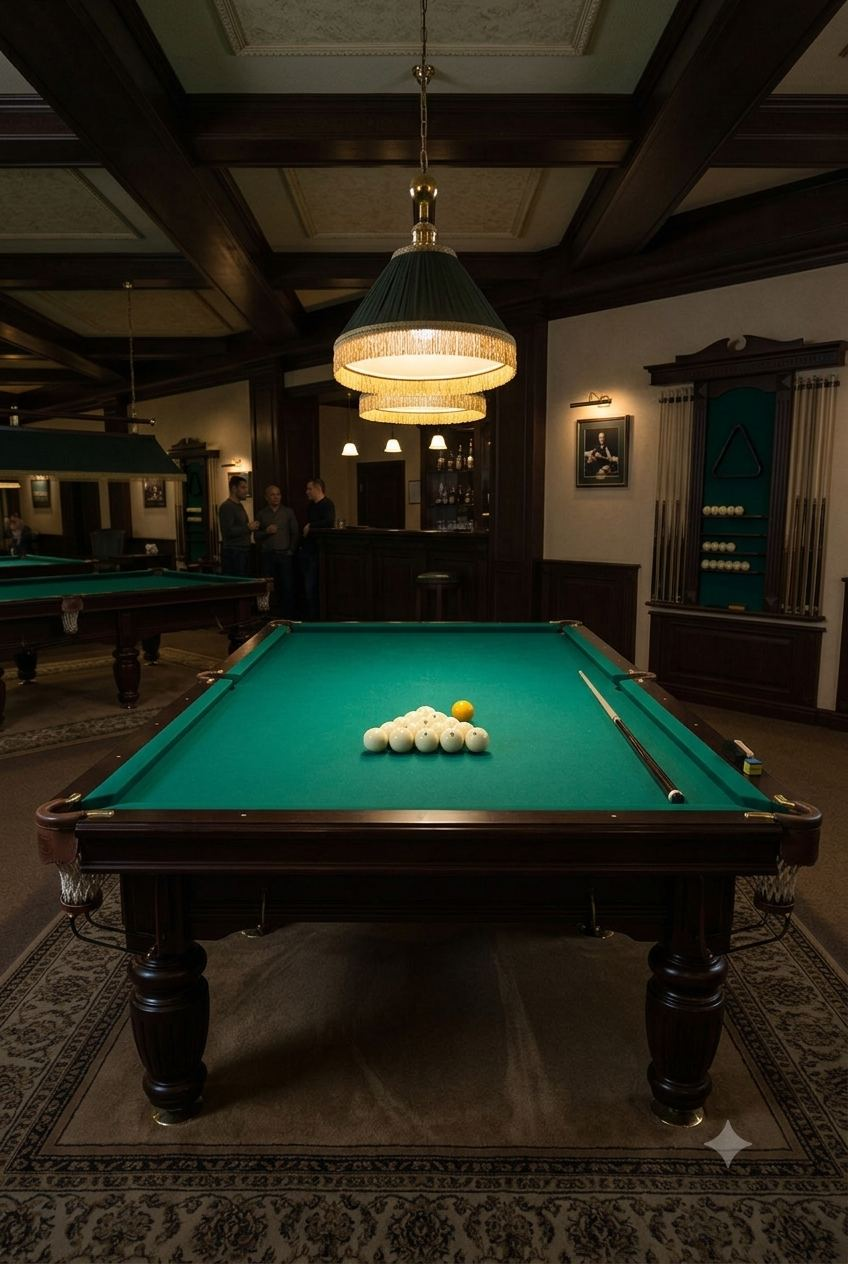
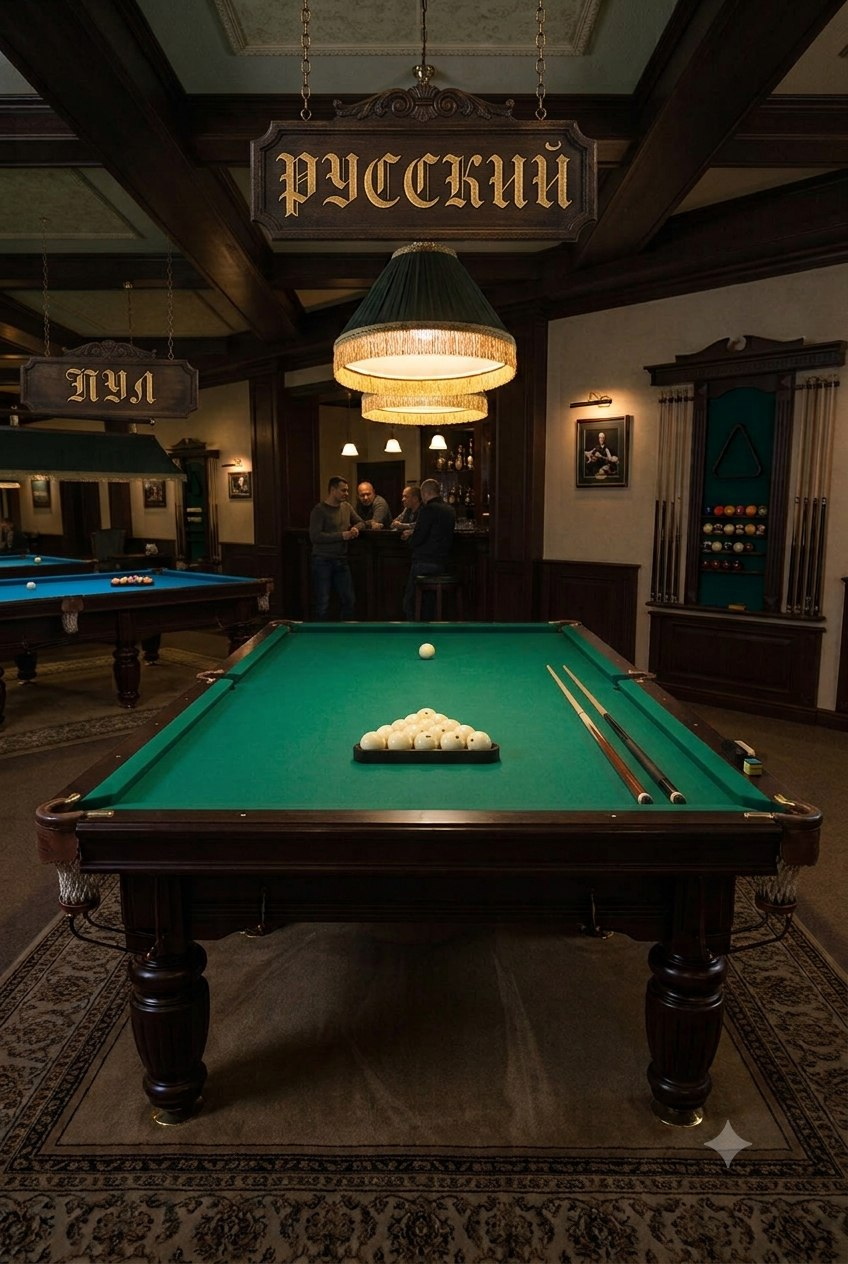
Add a discipline-choice gate screen and swap in real lit/unlit photos (#29)
- Replace the CSS brightness() dimming trick with three actual table
  photos (off/dim, russian lit, pool lit) that cross-fade, so the
  "lights off" state is a real photo instead of a filtered one.
- On every fresh load with no match in progress, show a "Во что
  будете играть?" gate (just the dim table + two big discipline
  buttons) instead of the normal app chrome. Picking a discipline
  lights the table and reveals the header/tabs/nav as before.
- Returning to an already-active match skips the gate entirely and
  lights the table immediately, so it doesn't interrupt play on
  reload.

diff --git a/src/BilliardsTracker.jsx b/src/BilliardsTracker.jsx
@@ -18,6 +18,7 @@ import {
 } from "./clubSync.js";
 import tableRussianPhoto from "./assets/table-russian.jpg";
 import tablePoolPhoto from "./assets/table-pool.jpg";
+import tableOffPhoto from "./assets/table-off.jpg";
 import { COLORS, DICE_PIP_POS, DICE_LAYOUTS, POOL_PALETTE, GAME_TYPES, RUSSIAN_MODES, AVATAR_COLORS } from "./constants.js";
 import {
   uid,
@@ -445,47 +446,79 @@ function Confetti({ active }) {
     </div>
   );
 }
+function DisciplineGate({ onPick }) {
+  return (
+    <div style={gateStyles.wrap} className="no-print">
+      <p style={gateStyles.prompt}>Во что будете играть?</p>
+      <div style={gateStyles.options}>
+        <button style={gateStyles.option} onClick={() => onPick("russian")}>
+          <GameIcon type="russian" size={30} />
+          <span>Русский бильярд</span>
+        </button>
+        <button style={gateStyles.option} onClick={() => onPick("pool")}>
+          <GameIcon type="pool" size={30} />
+          <span>Pool</span>
+        </button>
+      </div>
+    </div>
+  );
+}
+
+const gateStyles = {
+  wrap: {
+    minHeight: "calc(100vh - 40px)",
+    display: "flex",
+    flexDirection: "column",
+    alignItems: "center",
+    justifyContent: "center",
+    gap: "22px",
+    padding: "calc(24px + env(safe-area-inset-top)) 24px calc(24px + env(safe-area-inset-bottom))",
+    textAlign: "center",
+  },
+  prompt: {
+    fontFamily: "'Fraunces', serif",
+    fontStyle: "italic",
+    fontSize: "22px",
+    fontWeight: 600,
+    color: "#F8F1DE",
+    margin: 0,
+    textShadow: "0 2px 10px rgba(0,0,0,0.55)",
+  },
+  options: { display: "flex", flexDirection: "column", gap: "14px", width: "100%", maxWidth: "300px" },
+  option: {
+    display: "flex",
+    alignItems: "center",
+    justifyContent: "center",
+    gap: "10px",
+    padding: "16px 20px",
+    borderRadius: "14px",
+    border: "1.5px solid rgba(241,233,210,0.55)",
+    background: "rgba(20,22,18,0)",
+    color: "#F1E9D2",
+    fontWeight: 700,
+    fontSize: "15px",
+    cursor: "pointer",
+  },
+};
+
 function TableArt({ gameType, lit }) {
   const isPool = gameType === "pool";
+  const layerStyle = {
+    position: "absolute",
+    inset: 0,
+    backgroundSize: "cover",
+    backgroundPosition: "center 42%",
+    transition: "opacity 0.6s ease",
+    animation: "tableKenBurns 22s ease-in-out infinite alternate",
+  };
 
   return (
     <div style={{ position: "absolute", inset: 0, overflow: "hidden" }} aria-hidden="true">
-      {/* table starts dim ("light off") and brightens on the first discipline
-          pick, like someone flicking the room lights on */}
-      <div
-        style={{
-          position: "absolute",
-          inset: 0,
-          filter: lit ? "brightness(1) saturate(1)" : "brightness(0.22) saturate(0.6)",
-          transition: "filter 0.9s ease",
-        }}
-      >
-        {/* real table photo, cross-fades between disciplines */}
-        <div
-          style={{
-            position: "absolute",
-            inset: 0,
-            backgroundImage: `url(${tableRussianPhoto})`,
-            backgroundSize: "cover",
-            backgroundPosition: "center 42%",
-            opacity: isPool ? 0 : 1,
-            transition: "opacity 0.6s ease",
-            animation: "tableKenBurns 22s ease-in-out infinite alternate",
-          }}
-        />
-        <div
-          style={{
-            position: "absolute",
-            inset: 0,
-            backgroundImage: `url(${tablePoolPhoto})`,
-            backgroundSize: "cover",
-            backgroundPosition: "center 42%",
-            opacity: isPool ? 1 : 0,
-            transition: "opacity 0.6s ease",
-            animation: "tableKenBurns 22s ease-in-out infinite alternate",
-          }}
-        />
-      </div>
+      {/* real table photos: a dim "lights off" shot by default, cross-fading
+          to the lit russian/pool shot once a discipline is picked */}
+      <div style={{ ...layerStyle, backgroundImage: `url(${tableOffPhoto})`, opacity: lit ? 0 : 1 }} />
+      <div style={{ ...layerStyle, backgroundImage: `url(${tableRussianPhoto})`, opacity: lit && !isPool ? 1 : 0 }} />
+      <div style={{ ...layerStyle, backgroundImage: `url(${tablePoolPhoto})`, opacity: lit && isPool ? 1 : 0 }} />
       {/* vignette so header/cards stay legible over a busy photo */}
       <div
         style={{
@@ -882,6 +915,11 @@ export default function BilliardsTracker() {
       }
       setShowOnboarding(true);
     })();
+  }, [loaded]);
+
+  useEffect(() => {
+    if (loaded && data.activeGame) setTableLit(true);
+    // eslint-disable-next-line react-hooks/exhaustive-deps
   }, [loaded]);
 
   const dismissOnboarding = useCallback(() => {
@@ -1823,6 +1861,10 @@ export default function BilliardsTracker() {
   const styles = makeStyles(dark);
   const isKolhoz = (data.gameType || "russian") === "russian" && (data.russianMode || "free") === "kolhoz";
   const immersive = !!(activeGame && gameMode);
+  // Show the "what are we playing?" gate until a discipline is actively
+  // picked this session — skip it outright if a match is already underway
+  // (returning to an in-progress game shouldn't ask again).
+  const showDisciplineGate = !tableLit && !activeGame;
 
   return (
     <div>
@@ -1921,6 +1963,10 @@ export default function BilliardsTracker() {
             📡 Нет соединения — партии сохраняются на устройстве и синхронизируются, когда сеть вернётся
           </div>
         )}
+        {showDisciplineGate ? (
+          <DisciplineGate onPick={setGameType} />
+        ) : (
+          <>
         {!immersive && (
           <header style={styles.header} className="no-print">
             <div style={styles.gameTypeSwitch} role="tablist" aria-label="Дисциплина">
@@ -2951,6 +2997,8 @@ export default function BilliardsTracker() {
               </button>
             ))}
           </nav>
+        )}
+          </>
         )}
       </div>
 
